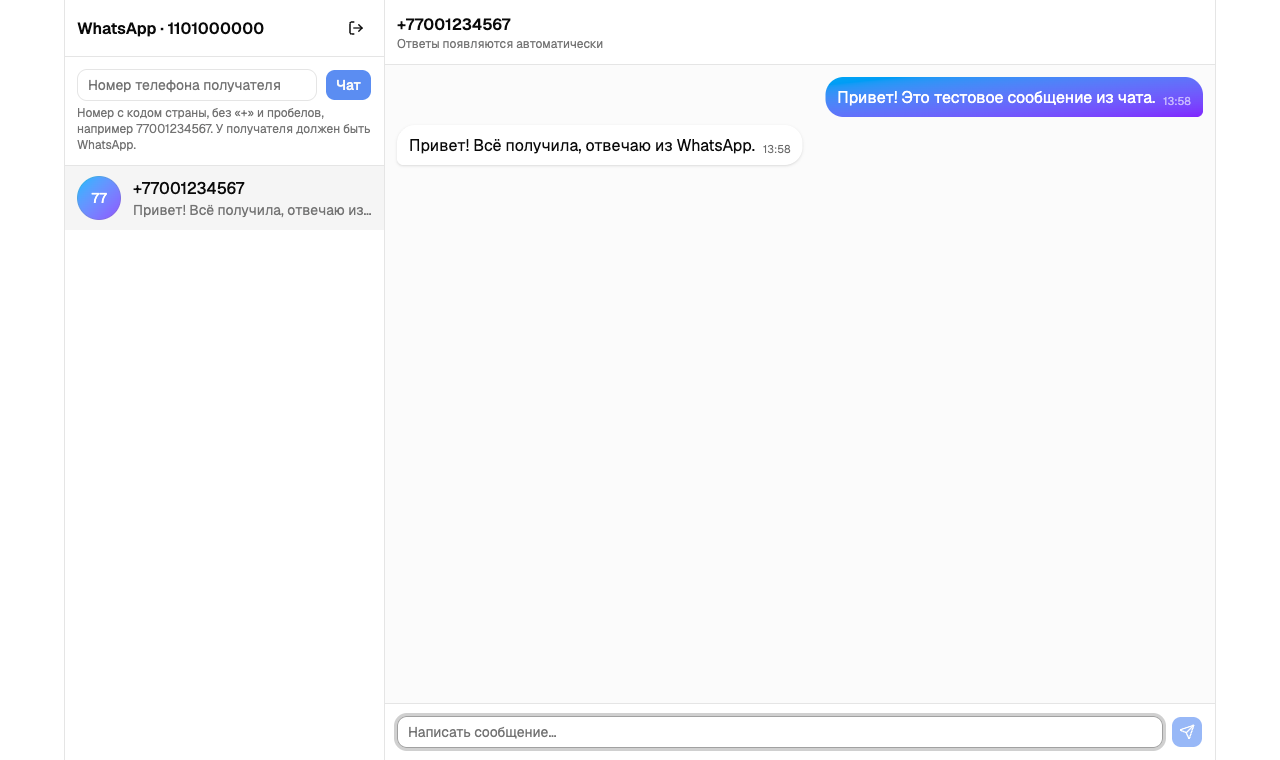
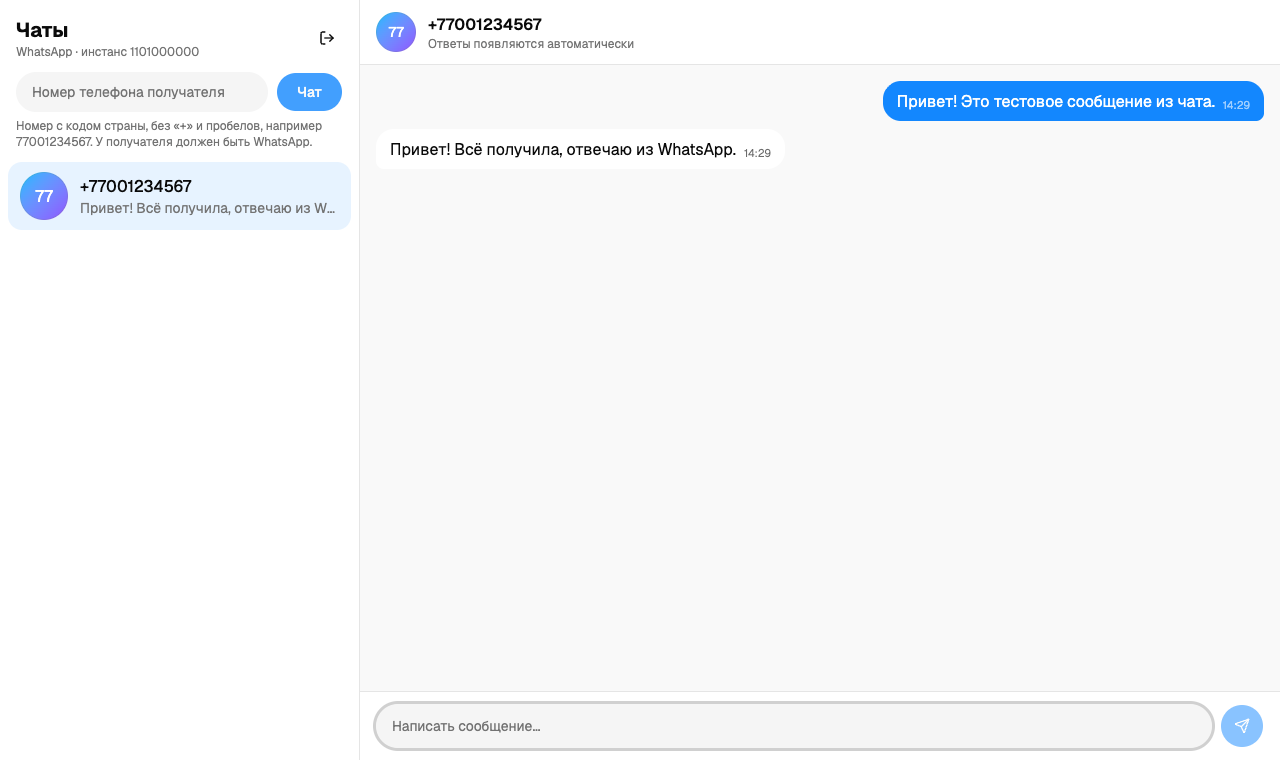
Restyle UI to match MAX web, update docs and screenshots
- Restyle chat UI after web.max.ru: blue accent, full-width two-pane layout, pill inputs, round send button, blue/white message bubbles, avatar in header
- Add setup guide and helper texts on login and chat screens
- Regenerate docs screenshots in the new style
- Mark requirement 4 as done in docs/README.md, add demo and repo links
- Add docs/email.md with the ready-to-send submission email

diff --git a/src/widgets/chat-window/ui/ChatWindow.tsx b/src/widgets/chat-window/ui/ChatWindow.tsx
@@ -2,6 +2,7 @@ import { ArrowLeft, MessagesSquare } from 'lucide-react'
 import { useEffect, useRef } from 'react'
 import { MessageBubble, useChats } from '@/entities/chat'
 import { SendMessageForm } from '@/features/send-message'
+import { Avatar, AvatarFallback } from '@/shared/ui/avatar'
 import { Button } from '@/shared/ui/button'
 
 export function ChatWindow() {
@@ -29,16 +30,21 @@ export function ChatWindow() {
 
   return (
     <div className="flex h-full flex-col">
-      <header className="flex items-center gap-2 border-b p-3">
+      <header className="flex items-center gap-3 border-b px-4 py-3">
         <Button variant="ghost" size="icon" className="md:hidden" aria-label="Назад" onClick={() => openChat(null)}>
           <ArrowLeft />
         </Button>
+        <Avatar className="size-10">
+          <AvatarFallback className="bg-linear-to-br from-sky-400 to-violet-500 font-medium text-white">
+            {chat.title.replace('+', '').slice(0, 2)}
+          </AvatarFallback>
+        </Avatar>
         <div className="min-w-0">
           <h2 className="truncate font-semibold">{chat.title}</h2>
           <p className="text-xs text-muted-foreground">Ответы появляются автоматически</p>
         </div>
       </header>
-      <div className="min-h-0 flex-1 space-y-2 overflow-y-auto bg-muted/40 p-3">
+      <div className="min-h-0 flex-1 space-y-2 overflow-y-auto bg-muted/60 p-4">
         {chat.messages.length === 0 && (
           <p className="pt-8 text-center text-sm text-muted-foreground">Напишите первое сообщение внизу и нажмите Enter</p>
         )}

diff --git a/src/features/send-message/ui/SendMessageForm.tsx b/src/features/send-message/ui/SendMessageForm.tsx
@@ -29,9 +29,9 @@ export function SendMessageForm({ chat }: { chat: Chat }) {
   }
 
   return (
-    <form onSubmit={submit} className="flex gap-2 border-t p-3">
-      <Input value={text} onChange={(e) => setText(e.target.value)} placeholder="Написать сообщение…" aria-label="Сообщение" maxLength={4000} autoFocus />
-      <Button type="submit" size="icon" disabled={!text.trim() || send.isPending} aria-label="Отправить">
+    <form onSubmit={submit} className="flex items-center gap-2 border-t px-4 py-3">
+      <Input value={text} onChange={(e) => setText(e.target.value)} placeholder="Написать сообщение…" aria-label="Сообщение" maxLength={4000} autoFocus className="h-11 rounded-full border-0 bg-muted px-4" />
+      <Button type="submit" size="icon" className="size-11 rounded-full" disabled={!text.trim() || send.isPending} aria-label="Отправить">
         <Send />
       </Button>
     </form>

diff --git a/src/entities/chat/ui/ChatListItem.tsx b/src/entities/chat/ui/ChatListItem.tsx
@@ -12,10 +12,10 @@ export function ChatListItem({ chat, active, onClick }: Props) {
   return (
     <button
       onClick={onClick}
-      className={cn('flex w-full items-center gap-3 px-3 py-2.5 text-left hover:bg-accent', active && 'bg-accent')}
+      className={cn('flex w-full items-center gap-3 rounded-xl px-3 py-2.5 text-left transition-colors hover:bg-muted', active && 'bg-primary/10 hover:bg-primary/10')}
     >
-      <Avatar className="size-11">
-        <AvatarFallback className="bg-linear-to-br from-sky-400 to-violet-500 font-medium text-white">{chat.title.replace('+', '').slice(0, 2)}</AvatarFallback>
+      <Avatar className="size-12">
+        <AvatarFallback className="bg-linear-to-br from-sky-400 to-violet-500 text-base font-medium text-white">{chat.title.replace('+', '').slice(0, 2)}</AvatarFallback>
       </Avatar>
       <span className="min-w-0 flex-1">
         <span className="block truncate font-medium">{chat.title}</span>

diff --git a/src/widgets/chat-list/ui/ChatList.tsx b/src/widgets/chat-list/ui/ChatList.tsx
@@ -11,12 +11,15 @@ export function ChatList() {
 
   return (
     <div className="flex h-full flex-col">
-      <div className="flex items-center justify-between border-b p-3">
-        <span className="font-semibold">WhatsApp · {idInstance}</span>
+      <div className="flex items-center justify-between px-4 pt-4 pb-2">
+        <div className="min-w-0">
+          <h1 className="text-xl font-bold">Чаты</h1>
+          <p className="truncate text-xs text-muted-foreground">WhatsApp · инстанс {idInstance}</p>
+        </div>
         <LogoutButton />
       </div>
       <CreateChatForm />
-      <ScrollArea className="min-h-0 flex-1">
+      <ScrollArea className="min-h-0 flex-1 px-2">
         {chats.length === 0 && (
           <div className="flex flex-col items-center gap-2 p-8 text-center text-sm text-muted-foreground">
             <MessageSquarePlus className="size-8" />

diff --git a/src/features/create-chat/ui/CreateChatForm.tsx b/src/features/create-chat/ui/CreateChatForm.tsx
@@ -27,15 +27,16 @@ export function CreateChatForm() {
   })
 
   return (
-    <form onSubmit={handleSubmit(({ phone }) => create.mutate(phone))} className="space-y-1 border-b p-3">
+    <form onSubmit={handleSubmit(({ phone }) => create.mutate(phone))} className="space-y-1.5 px-4 pt-1 pb-3">
       <div className="flex gap-2">
         <Input
           type="tel"
           placeholder="Номер телефона получателя"
           aria-label="Номер телефона получателя"
+          className="h-10 rounded-full border-0 bg-muted px-4"
           {...register('phone')}
         />
-        <Button type="submit" disabled={create.isPending}>
+        <Button type="submit" className="h-10 rounded-full px-5" disabled={create.isPending}>
           {create.isPending ? '…' : 'Чат'}
         </Button>
       </div>

diff --git a/src/features/auth/ui/LoginForm.tsx b/src/features/auth/ui/LoginForm.tsx
@@ -34,10 +34,10 @@ export function LoginForm() {
   return (
     <form
       onSubmit={handleSubmit((f) => auth.mutate(f))}
-      className="w-full max-w-sm space-y-4 rounded-2xl border bg-card p-6 shadow-sm"
+      className="w-full max-w-sm space-y-4 rounded-2xl bg-card p-6"
     >
       <div className="space-y-3 text-center">
-        <div className="mx-auto flex size-14 items-center justify-center rounded-2xl bg-linear-to-br from-sky-500 to-violet-600 text-white shadow-md">
+        <div className="mx-auto flex size-14 items-center justify-center rounded-2xl bg-linear-to-br from-sky-500 to-violet-600 text-white">
           <MessageCircle className="size-7" />
         </div>
         <div>

diff --git a/src/entities/chat/ui/MessageBubble.tsx b/src/entities/chat/ui/MessageBubble.tsx
@@ -8,9 +8,8 @@ export function MessageBubble({ message }: { message: Message }) {
     <div className={cn('flex', message.out ? 'justify-end' : 'justify-start')}>
       <div
         className={cn(
-          'max-w-[85%] rounded-2xl px-3 py-2 break-words whitespace-pre-wrap sm:max-w-[70%]',
-          message.out
-            ? 'rounded-br-sm bg-linear-to-br from-sky-500 to-violet-600 text-white' : 'rounded-bl-sm bg-card shadow-sm',
+          'max-w-[85%] rounded-2xl px-3.5 py-2 break-words whitespace-pre-wrap sm:max-w-[65%]',
+          message.out ? 'rounded-br-md bg-primary text-white' : 'rounded-bl-md bg-card',
         )}
       >
         {message.text}

diff --git a/src/pages/chat/ui/ChatPage.tsx b/src/pages/chat/ui/ChatPage.tsx
@@ -9,8 +9,8 @@ export function ChatPage() {
   useReceiveMessages()
 
   return (
-    <div className="mx-auto flex h-dvh max-w-6xl border-x bg-background">
-      <aside className={cn('w-full border-r md:block md:w-80 md:shrink-0', activeId ? 'hidden' : 'block')}>
+    <div className="flex h-dvh bg-background">
+      <aside className={cn('w-full border-r md:block md:w-[360px] md:shrink-0', activeId ? 'hidden' : 'block')}>
         <ChatList />
       </aside>
       <main className={cn('min-w-0 flex-1 md:block', activeId ? 'block' : 'hidden')}>

diff --git a/src/pages/login/ui/SetupGuide.tsx b/src/pages/login/ui/SetupGuide.tsx
@@ -19,7 +19,7 @@ const steps = [
 
 export function SetupGuide() {
   return (
-    <section className="w-full max-w-sm space-y-4 rounded-2xl border bg-card/70 p-6 shadow-sm backdrop-blur">
+    <section className="w-full max-w-sm space-y-4 rounded-2xl border bg-card/70 p-6 shadow-none">
       <h2 className="text-lg font-semibold">Где взять данные для входа</h2>
       <ol className="space-y-3">
         {steps.map((s, i) => (

diff --git a/src/pages/login/ui/LoginPage.tsx b/src/pages/login/ui/LoginPage.tsx
@@ -3,7 +3,7 @@ import { SetupGuide } from './SetupGuide'
 
 export function LoginPage() {
   return (
-    <div className="flex min-h-dvh flex-col items-center justify-center gap-4 bg-linear-to-br from-sky-50 to-violet-100 p-4 md:flex-row md:items-start md:py-16">
+    <div className="flex min-h-dvh flex-col items-center justify-center gap-4 bg-muted/60 p-4 md:flex-row md:items-start md:py-16">
       <LoginForm />
       <SetupGuide />
     </div>

diff --git a/src/app/styles/index.css b/src/app/styles/index.css
@@ -55,7 +55,7 @@
     --card-foreground: oklch(0.145 0 0);
     --popover: oklch(1 0 0);
     --popover-foreground: oklch(0.145 0 0);
-    --primary: oklch(0.58 0.2 262);
+    --primary: oklch(0.63 0.2 255);
     --primary-foreground: oklch(0.985 0 0);
     --secondary: oklch(0.97 0 0);
     --secondary-foreground: oklch(0.205 0 0);

diff --git a/docs/email.md b/docs/email.md
@@ -1,0 +1,51 @@
+# Текст письма для отправки
+
+**Кому:** hr@green-api.com
+**Тема:** Тестовое задание на должность - Фронтенд разработчик React
+**Вложение:** резюме в PDF
+
+---
+
+Здравствуйте!
+
+Направляю выполненное тестовое задание на должность «Фронтенд разработчик React».
+
+**1. Резюме:** во вложении (PDF). Telegram для связи: @ВАШ_НИК
+
+**2. Репозиторий GitHub:** https://github.com/WebDiyar/green-api-tz
+
+**3. Инструкция для локального запуска:** https://github.com/WebDiyar/green-api-tz#быстрый-старт
+Коротко: `npm install`, затем `npm run dev`, приложение откроется на http://localhost:5173 (нужен Node.js 20.19+ или 22.12+). Переменные окружения не нужны, `idInstance` и `apiTokenInstance` вводятся на экране входа.
+
+**4. Сервис в интернете:** https://green-api-tz-blue.vercel.app
+
+**5. Скриншоты и описание:** https://github.com/WebDiyar/green-api-tz/tree/main/docs
+(там же проверка выполнения каждого пункта ТЗ)
+
+**Что реализовано**
+- Вход по `idInstance` и `apiTokenInstance`, перед входом проверяется, что инстанс авторизован (`getStateInstance`).
+- Создание нового чата по номеру телефона получателя с предварительной проверкой номера (`checkWhatsapp`).
+- Отправка текстовых сообщений методом SendMessage.
+- Получение ответов методом HTTP API: цикл `receiveNotification` → обработка → `deleteNotification`. Ответ появляется в чате автоматически.
+- Интерфейс в стиле web.max.ru: список чатов слева, переписка справа, адаптивная вёрстка для телефона.
+- На экранах есть подсказки, где взять данные и что делать дальше.
+- Unit-тесты (vitest), TypeScript, архитектура Feature-Sliced Design.
+
+**Стек:** React 19, TypeScript, Vite, Tailwind CSS, shadcn/ui, axios, TanStack Query, zustand, react-hook-form + zod.
+
+**Важное замечание про мессенджер.** Задание выполнено для WhatsApp, а не для MAX: в консоли GREEN-API мне был доступен только тариф для WhatsApp и Telegram, а ТЗ допускает такой вариант. Методы отправки и получения (`sendMessage`, `receiveNotification`, `deleteNotification`) у MAX и WhatsApp одинаковые, отличается проверка номера (`checkWhatsapp` вместо `checkAccount`), поэтому перенос на MAX потребует правки в одном месте: `src/shared/api/green.ts` и форме создания чата.
+
+**Как проверить**
+1. В консоли GREEN-API убедитесь, что инстанс авторизован, `incomingWebhook` включён, а поле адреса уведомлений (URL) пустое.
+2. Откройте https://green-api-tz-blue.vercel.app и введите свои `idInstance` и `apiTokenInstance`. Токен хранится только в браузере и никуда, кроме GREEN-API, не отправляется.
+3. Введите номер получателя с кодом страны (например, 77001234567), нажмите «Чат», отправьте сообщение.
+4. Ответьте с телефона получателя: ответ появится в чате в течение нескольких секунд.
+
+**Формат работы:** предпочитаю ВЫБЕРИТЕ — удалёнка / офис Химки / офис Астана.
+
+Буду рад обратной связи и готов ответить на вопросы.
+
+С уважением,
+ВАШЕ ИМЯ
+Telegram: @ВАШ_НИК
+Телефон / e-mail: www.diyar.atashka@gmail.com
